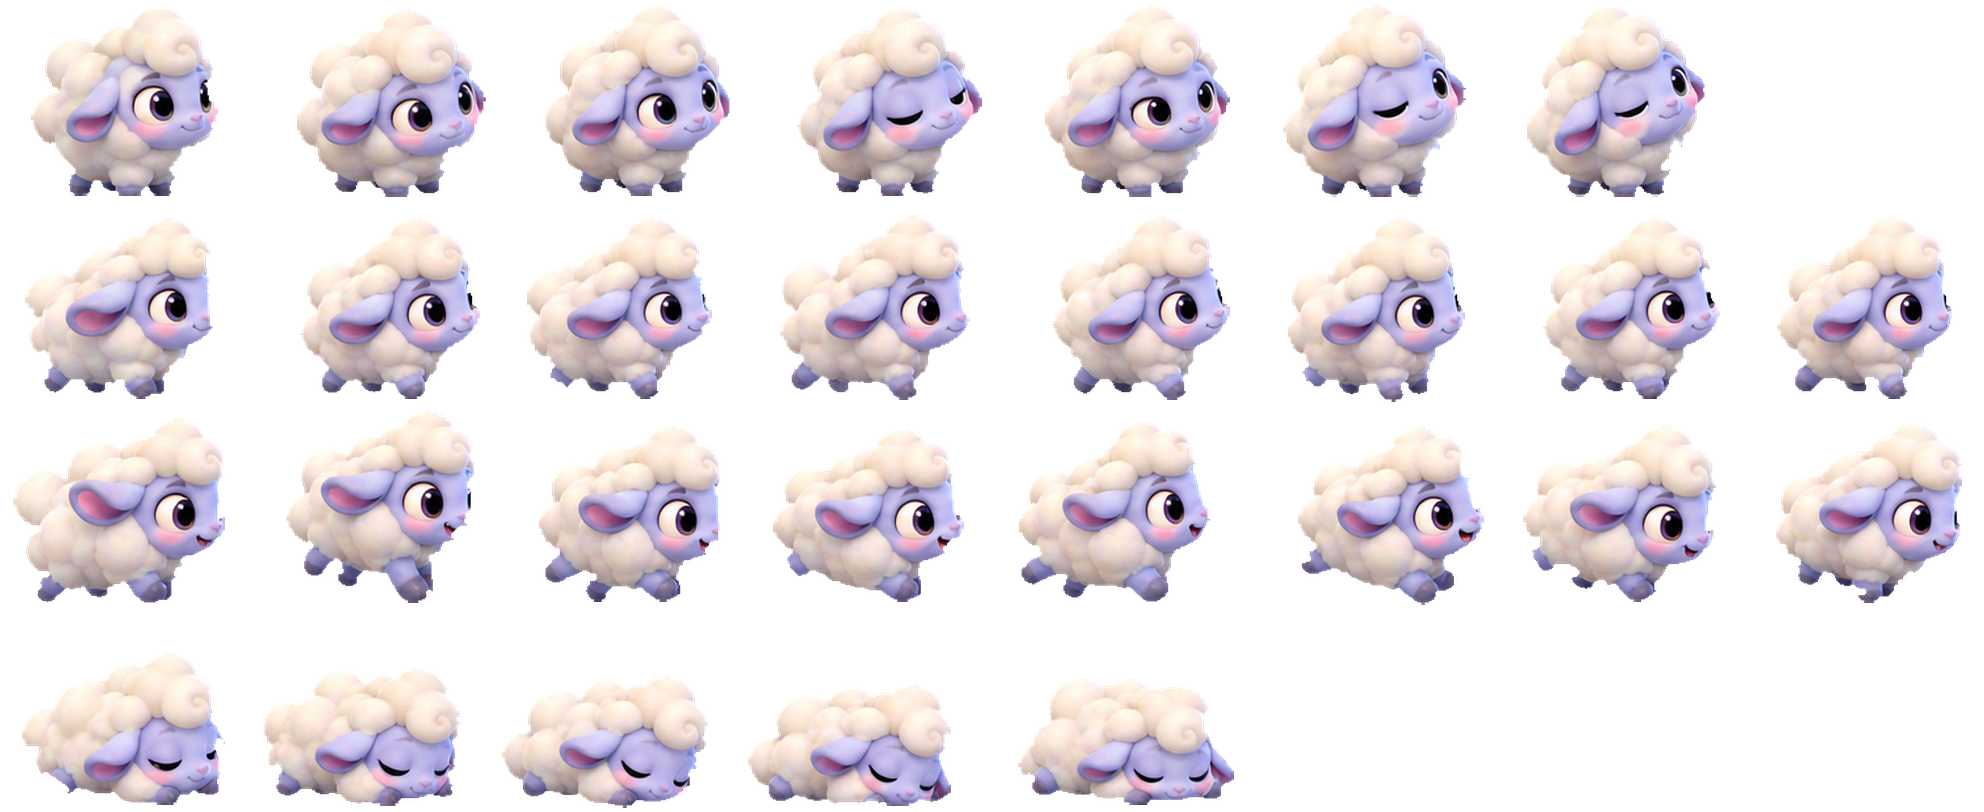
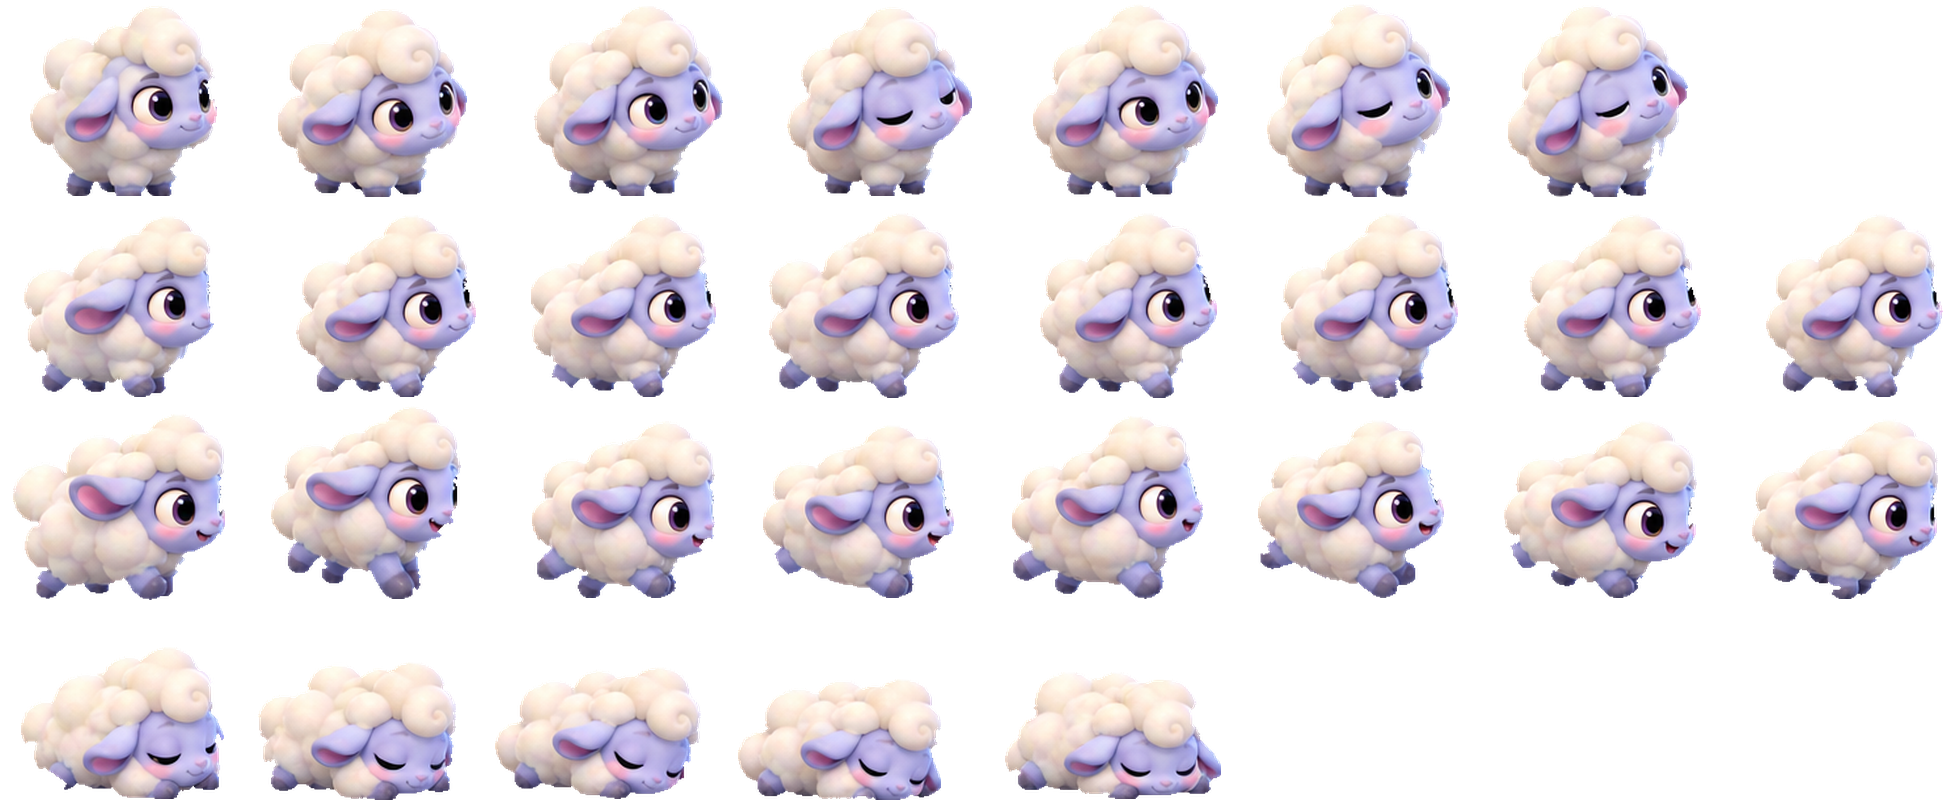
Hatchwild: Sparky animated (idle, walk, fly, zap, hurt, nap); cleaner cut-outs that keep glows and only fix the outer rim
Claude-Session: https://claude.ai/code/session_01TTPpyuRjXFZd6BDuvJmyjm

diff --git a/prototypes/hatchwild/src.html b/prototypes/hatchwild/src.html
@@ -1023,10 +1023,11 @@ function drawRig(c, sp, R, s, t, moving, blink){
 // Sprite-sheet animations made from ChatGPT pose sheets (scripts/hatchwild-sheet.py). One row per
 // animation in art/anims/<species>.png. Paste each line the script prints here. These win over RIGS.
 const ANIMS = {
-pebblet: {"cell":[338,216],"anchor":[174,209],"h":190,"idle":{"row":0,"n":8,"fps":5},"walk":{"row":1,"n":8,"fps":9},"nap":{"row":2,"n":4,"fps":4}},
-  zippy: {"cell":[303,310],"anchor":[154,206],"h":190,"idle":{"row":0,"n":7,"fps":5},"walk":{"row":1,"n":8,"fps":9},"fly":{"row":2,"n":6,"fps":12,"torso":1},"nap":{"row":3,"n":1,"fps":4}},
-  coconeer: {"cell":[243,218],"anchor":[107,208],"h":190,"idle":{"row":0,"n":6,"fps":5},"walk":{"row":1,"n":10,"fps":9},"run":{"row":2,"n":10,"fps":12},"attack":{"row":3,"n":8,"fps":12},"hurt":{"row":4,"n":6,"fps":10},"nap":{"row":5,"n":6,"fps":4}},
-  puffling: {"cell":[248,203],"anchor":[131,195],"h":190,"idle":{"row":0,"n":7,"fps":5},"walk":{"row":1,"n":8,"fps":9},"run":{"row":2,"n":8,"fps":12},"nap":{"row":3,"n":5,"fps":4}},
+  sparkfinch: {"cell":[313,296],"anchor":[157,204],"h":190,"idle":{"row":0,"n":10,"fps":5},"walk":{"row":1,"n":10,"fps":9},"fly":{"row":2,"n":8,"fps":12,"torso":1},"attack":{"row":3,"n":8,"fps":12},"hurt":{"row":4,"n":8,"fps":10},"nap":{"row":5,"n":9,"fps":4}},
+pebblet: {"cell":[333,213],"anchor":[174,207],"h":190,"idle":{"row":0,"n":8,"fps":5},"walk":{"row":1,"n":8,"fps":9},"nap":{"row":2,"n":4,"fps":4}},
+  zippy: {"cell":[296,307],"anchor":[151,204],"h":190,"idle":{"row":0,"n":7,"fps":5},"walk":{"row":1,"n":8,"fps":9},"fly":{"row":2,"n":6,"fps":12,"torso":1},"nap":{"row":3,"n":1,"fps":4}},
+  coconeer: {"cell":[240,210],"anchor":[105,203],"h":190,"idle":{"row":0,"n":6,"fps":5},"walk":{"row":1,"n":10,"fps":9},"run":{"row":2,"n":10,"fps":12},"attack":{"row":3,"n":8,"fps":12},"hurt":{"row":4,"n":6,"fps":10},"nap":{"row":5,"n":6,"fps":4}},
+  puffling: {"cell":[245,201],"anchor":[130,195],"h":190,"idle":{"row":0,"n":7,"fps":5},"walk":{"row":1,"n":8,"fps":9},"run":{"row":2,"n":8,"fps":12},"nap":{"row":3,"n":5,"fps":4}},
 };
 const ANIM_IMG = {}; for (const k in ANIMS) { const im = new Image(); im.src = 'art/anims/' + k + '.png'; ANIM_IMG[k] = im; }
 const animReady = sp => { const im = ANIM_IMG[sp]; return im && im.complete && im.naturalWidth ? ANIMS[sp] : null; };

diff --git a/scripts/hatchwild-sheet.py b/scripts/hatchwild-sheet.py
@@ -43,6 +43,10 @@ SHEETS = {
       S('idle', range(0, 7), 5), S('walk', range(7, 15), 9), S('run', range(15, 23), 12), S('jump', range(23, 31), 11, False, 'sheet'),
       S('blink', range(31, 39), 10, hold=1.2), S('sleep', range(39, 46), 4)],
     'game': {'idle': 'idle', 'walk': 'walk', 'run': 'run', 'nap': ('sleep', range(0, 5))}},   # the last two sleep poses are drawn smaller
+  'sparkfinch': {'cut': 120, 'ref': 'idle', 'seqs': [
+      S('idle', range(0, 10), 5), S('walk', range(10, 20), 9), S('fly', range(20, 28), 12, reg='torso'), S('cheer', range(28, 37), 11, False, 'sheet'),
+      S('zap', range(37, 45), 12, False, 'plant'), S('hurt', range(45, 53), 10, False, 'plant'), S('sleep', range(53, 62), 4)],
+    'game': {'idle': 'idle', 'walk': 'walk', 'fly': 'fly', 'attack': 'zap', 'hurt': 'hurt', 'nap': 'sleep'}},
 }
 GAME_H = 190   # a standing critter is this many pixels tall in the game atlas
 SRC, EXP, ATLAS = 'art-src/hatchwild', 'art-src/hatchwild/export', 'prototypes/hatchwild/art'
@@ -53,18 +57,17 @@ class Pose:
 
 def keep_pieces(a, main, box, margin=.12):
   # small separate pieces (Zzz, dizzy stars, sparks) belong to a pose if they sit over it
-  x0, y0, x1, y1 = box; w, h = x1 - x0, y1 - y0; n, lab, st, _ = cv2.connectedComponentsWithStats(a.astype(np.uint8))
-  keep = main.copy(); dropped = 0
-  for i in range(1, n):
-    x, y, bw, bh, ar = st[i]
-    if keep[lab == i].any() or ar < 150: continue
-    cx, cy = x + bw / 2, y + bh / 2
-    if x0 - w * margin < cx < x1 + w * margin and y0 - h * margin < cy < y1 + h * .05: keep |= lab == i
-    else: dropped += 1
-  return keep, dropped
+  x0, y0, x1, y1 = box; w, h = x1 - x0, y1 - y0; H, W = a.shape
+  X0, Y0, X1, Y1 = max(0, int(x0 - w * margin)), max(0, int(y0 - h * margin)), min(W, int(x1 + w * margin)), min(H, int(y1 + h * .05))
+  aw, mw = a[Y0:Y1, X0:X1], main[Y0:Y1, X0:X1]
+  n, lab, st, _ = cv2.connectedComponentsWithStats(aw.astype(np.uint8))
+  inmain = set(np.unique(lab[mw]).tolist())
+  cand = [i for i in range(1, n) if i not in inmain and st[i][4] >= 150 and st[i][0] > 0 and st[i][1] > 0 and st[i][0] + st[i][2] < aw.shape[1] and st[i][1] + st[i][3] < aw.shape[0]]
+  keep = main.copy(); keep[Y0:Y1, X0:X1] |= np.isin(lab, cand)
+  return keep, 0
 
-def find_plain(img):
-  a = img[..., 3] > 40; m = cv2.morphologyEx(a.astype(np.uint8), cv2.MORPH_CLOSE, np.ones((9, 9), np.uint8))
+def find_plain(img, cut=40):
+  a = img[..., 3] > cut; m = cv2.morphologyEx(a.astype(np.uint8), cv2.MORPH_CLOSE, np.ones((9, 9), np.uint8))
   n, lab, st, _ = cv2.connectedComponentsWithStats(m)
   bl = [(i, *st[i][:4]) for i in range(1, n) if st[i][4] > 2000]
   rows = []
@@ -72,10 +75,12 @@ def find_plain(img):
     for r in rows:
       if b[2] < r['y1'] - 20: r['b'].append(b); r['y1'] = max(r['y1'], b[2] + b[4]); break
     else: rows.append({'b': [b], 'y1': b[2] + b[4]})
-  out = []
+  out = []; loose = img[..., 3] > 40; taken = np.isin(lab, [b[0] for b in bl])
   for r_i, r in enumerate(rows):
     for i, x, y, w, h in sorted(r['b'], key=lambda b: b[1]):
-      out.append(Pose(img[y:y + h, x:x + w] * (lab[y:y + h, x:x + w] == i)[..., None], x, y, r_i))
+      m, _ = keep_pieces(loose & (~taken | (lab == i)), lab == i, (x, y, x + w, y + h))
+      ys, xs = np.where(m); x0, y0, x1, y1 = xs.min(), ys.min(), xs.max() + 1, ys.max() + 1
+      out.append(Pose(img[y0:y1, x0:x1] * m[y0:y1, x0:x1][..., None], x0, y0, r_i))
   return out, []
 
 def find_labeled(img):
@@ -113,13 +118,14 @@ def find_labeled(img):
   return out, notes
 
 def clean(px):
-  # the artwork stays as drawn; only the semi-transparent coloured halo around the edge is replaced by
-  # the neighbouring edge colour, and the alpha edge is tightened by one pixel
-  a = px[..., 3].astype(np.float32); solid = cv2.erode((a >= 245).astype(np.uint8), np.ones((3, 3), np.uint8))
+  # the artwork stays as drawn, glows included. Only the outer 2px rim, where AI tools leave a coloured
+  # halo of the old background, takes its colour from just inside the edge; faint haze is faded out.
+  a = px[..., 3].astype(np.float32); empty = (a < 25).astype(np.uint8)
+  rim = (cv2.dilate(empty, np.ones((5, 5), np.uint8)) > 0) & (a < 200) & (empty == 0)
   rgb = cv2.cvtColor(np.ascontiguousarray(px[..., :3]), cv2.COLOR_RGB2BGR)
-  fixed = cv2.cvtColor(cv2.inpaint(rgb, (1 - solid) * 255, 5, cv2.INPAINT_TELEA), cv2.COLOR_BGR2RGB)
-  rgb = np.where(solid[..., None] > 0, px[..., :3], fixed)
-  a = cv2.erode(a, np.ones((3, 3), np.uint8)); a = np.where(a > 200, 255, a)
+  fixed = cv2.cvtColor(cv2.inpaint(rgb, ((rim | (empty > 0)) * 255).astype(np.uint8), 4, cv2.INPAINT_TELEA), cv2.COLOR_BGR2RGB)
+  rgb = np.where(rim[..., None], fixed, px[..., :3])
+  lo, hi = 25, 235; u = np.clip((a - lo) / (hi - lo), 0, 1); a = u * u * (3 - 2 * u) * 255
   return np.dstack([rgb, a]).astype(np.uint8)
 
 # ---------- measuring ----------
@@ -205,7 +211,7 @@ def gif(cells, path, fps, hold=0, loop=True, bg=(236, 240, 232)):
 
 def main(cid):
   C = SHEETS[cid]; img = np.array(Image.open(f'{SRC}/{cid}-sheet.png').convert('RGBA'))
-  P, notes = (find_labeled if C.get('labeled') else find_plain)(img); notes = C.get('notes', []) + notes
+  P, notes = find_labeled(img) if C.get('labeled') else find_plain(img, C.get('cut', 40)); notes = C.get('notes', []) + notes
   for p in P: p.px = clean(p.px)
   used = {i for s in C['seqs'] for i in s['poses']}
   for i in range(len(P)):
